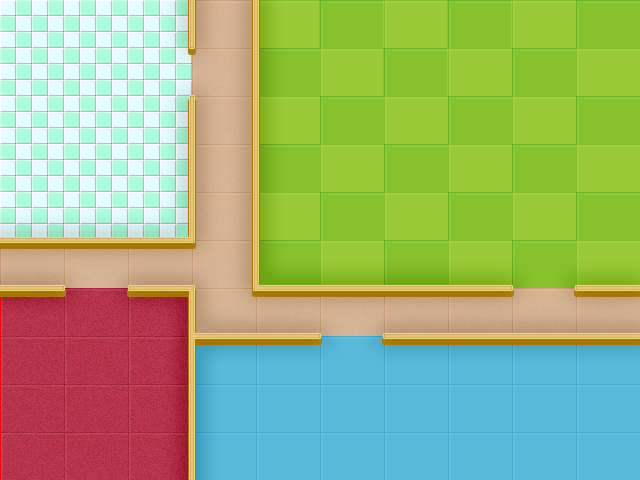
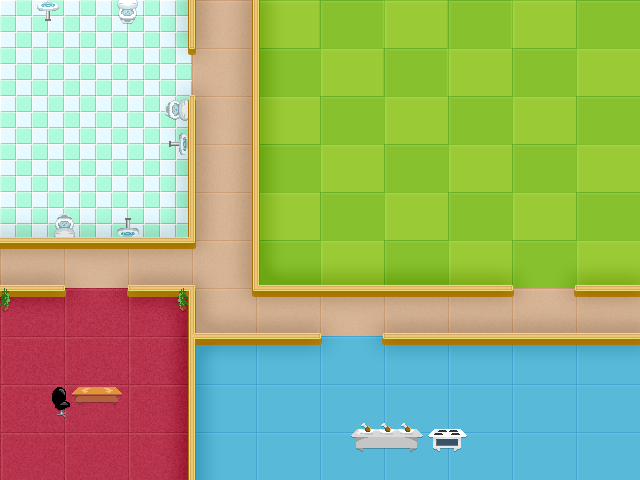
Hiring managers works, need to add functionalities still

diff --git a/public/javascripts/game.js b/public/javascripts/game.js
@@ -26,7 +26,7 @@ define(['reqanim', 'grid', 'zepto', 'entityFactory', 'moment', 'canvas', 'projec
 
     // Gameplay related settings
     this.gameplay = {
-      money: 30000,
+      money: 3000000,
 	  losecondition: -20000,
 	  progress: 0,
       time: new Date(1970,01,01).getMilliseconds(),
@@ -188,22 +188,38 @@ define(['reqanim', 'grid', 'zepto', 'entityFactory', 'moment', 'canvas', 'projec
    */
   Game.prototype.onClick = function(x, y) {
 
+    var isFound = false;
+
     for(var type in this.gameplay.floors[this.gameplay.currentFloor]) {
 
       if(type === "coder") {
 
         // Converting to possible coder coordinates...
-        x -= 4;
+        var person = this.gameplay.floors[this.gameplay.currentFloor][type][(x-4) + "," + y];
 
-        var person = this.gameplay.floors[this.gameplay.currentFloor][type][x + "," + y];
+        if(typeof person !== "undefined" && person.stateCurrent !== "walking") {
+          this.selectEntity(this.gameplay.floors[this.gameplay.currentFloor][type][(x-4) + "," + y]);
+          isFound = true;
+          break;
+        }
 
-        if(typeof person !== "undefined" && person.stateCurrent !== "walking")
-          this.selectEntity(this.gameplay.floors[this.gameplay.currentFloor][type][x + "," + y]);
-        else
-          this.clearSelections();
+      } else if(type === "manager") {
+
+        // Converting to possible manager coordinates...
+        var manager = this.gameplay.floors[this.gameplay.currentFloor][type][x + "," + (y-9)];
+
+        if(typeof manager !== "undefined") {
+          this.selectEntity(this.gameplay.floors[this.gameplay.currentFloor][type][x + "," + (y-9)]);
+          isFound = true;
+          break;
+        }
 
       }
 
+    }
+
+    if(isFound === false) {
+      this.clearSelections();
     }
 
   };
@@ -227,9 +243,11 @@ define(['reqanim', 'grid', 'zepto', 'entityFactory', 'moment', 'canvas', 'projec
     this.clearSelections();
 
     // Show correct view...
-    $('#person-' + entity.type).find('.person img').attr("src", "/images/" + entity.stateCurrent + ".png");
-    $('#person-' + entity.type).removeClass('hidden');
+    if(entity.type === "coder") {
+      $('#person-' + entity.type).find('.person img').attr("src", "/images/" + entity.stateCurrent + ".png");
+    }
 
+    $('#person-' + entity.type).removeClass('hidden');
     this.gameplay.selectedEntity = entity;
 
   };
@@ -238,12 +256,14 @@ define(['reqanim', 'grid', 'zepto', 'entityFactory', 'moment', 'canvas', 'projec
    * Called when UI selections needs to be toggled away.. (e.g. floor change)
    *
    */
-  Game.prototype.clearSelections = function(entity) {
+  Game.prototype.clearSelections = function() {
 
     // Setting UI to default hidden state
     this.ui.personArea.addClass("hidden");
-    $('.person img').attr("src", "/images/normal.png");
-    // todo add manager image..
+
+    if(this.gameplay.selectedEntity != null && this.gameplay.selectedEntity.type === "coder") {
+      $('#person-coder').find('.person img').attr("src", "/images/normal.png");
+    }
 
     this.gameplay.selectedEntity = null;
 
@@ -264,9 +284,10 @@ define(['reqanim', 'grid', 'zepto', 'entityFactory', 'moment', 'canvas', 'projec
       return;
 
     }
-	// Entity added, play sound!
-	this.register.currentTime = 0;
-	this.register.play();
+
+  	// Entity added, play sound!
+  	this.register.currentTime = 0;
+  	this.register.play();
 
   };
 

diff --git a/public/javascripts/managerFactory.js b/public/javascripts/managerFactory.js
@@ -1,0 +1,101 @@
+define(['manager'], function(Manager) {
+
+	/**
+	 *
+	 *
+	 */
+	var ManagerFactory = function(gameplay, tileFactory) {
+
+    this.gameplay = gameplay;
+    this.tileFactory = tileFactory;
+    this.maxManagers = 3;
+
+	};
+
+	/**
+	 *
+	 *
+	 */
+	ManagerFactory.prototype.addEntity = function() {
+
+    var result = {
+      error: null,
+      entity: null
+    };
+
+    // Check if enough cash
+    if(this.gameplay.money - this.gameplay.costs["manager"] >= 0) {
+
+        // Check if room available in this floor
+        if(this.hasRoom("manager")) {
+
+          var slot = this.getFreeSlot();
+
+          // Buy it..
+          this.gameplay.money -= this.gameplay.costs["manager"];
+
+          // todo: calculate next free position???
+          this.gameplay.floors[this.gameplay.currentFloor]["manager"][slot.x + "," + slot.y] = new Manager({
+            type: "manager",
+            x: slot.x,
+            y: slot.y,
+            sprite: this.tileFactory.getSprite("sitting", "manager"),
+            tileFactory: this.tileFactory
+          });
+
+          result.entity = this.gameplay.floors[this.gameplay.currentFloor]["manager"][slot.x + "," + slot.y];
+
+          return result;
+
+        }
+
+        result.error = "No manager slots available - change floor!";
+
+        return result;
+
+    }
+
+    result.error = "Not enough money for FATASS manager!";
+
+    return result;
+
+	};
+
+  /**
+   *
+   *
+   */
+  ManagerFactory.prototype.hasRoom = function() {
+
+    return Object.keys(this.gameplay.floors[this.gameplay.currentFloor]["manager"]).length < this.maxManagers;
+
+  };
+
+  /**
+   *
+   *
+   */
+  ManagerFactory.prototype.getFreeSlot = function() {
+
+    var isComplete = false;
+
+    do {
+
+      var x = Math.floor(Math.random() * (2 - 0 + 1)) + 0,
+          y = 0;
+
+      if(typeof this.gameplay.floors[this.gameplay.currentFloor]["manager"][x + "," + y] === "undefined")
+        isComplete = true;
+
+    } while(isComplete === false);
+
+    return {
+      x: x,
+      y: y
+    };
+
+  };
+
+	return ManagerFactory;
+
+});

diff --git a/public/javascripts/canvas.js b/public/javascripts/canvas.js
@@ -24,21 +24,13 @@ define(['zepto'], function($) {
 		// Clearing it all
 		this.clear();
 
-		// Draw all entities
+		// Draw all entities (current floor only)
 	    for(var type in this.gameplay.floors[this.gameplay.currentFloor]) {
+	      for(var key in this.gameplay.floors[this.gameplay.currentFloor][type]) {
 
-	      if(type === "coder") {
-
-	        for(var key in this.gameplay.floors[this.gameplay.currentFloor][type]) {
-
-	          this.gameplay.floors[this.gameplay.currentFloor][type][key].draw(this.ctx);
-
-	        }
+	         this.gameplay.floors[this.gameplay.currentFloor][type][key].draw(this.ctx);
 
 	      }
-
-	      break;
-
 	    }
 
 	};
@@ -48,17 +40,13 @@ define(['zepto'], function($) {
 		// Update all entities
 	    for(var floor in this.gameplay.floors) {
         for(var type in this.gameplay.floors[floor]) {
-          if(type === "coder") {
+          for(var key in this.gameplay.floors[floor][type]) {
 
-            for(var key in this.gameplay.floors[floor][type]) {
-
+            if(typeof this.gameplay.floors[this.gameplay.currentFloor][type][key] !== "undefined") {
               this.gameplay.floors[this.gameplay.currentFloor][type][key].update();
-
             }
 
           }
-
-          break;
         }
 	    }
 	};

diff --git a/public/javascripts/manager.js b/public/javascripts/manager.js
@@ -1,0 +1,55 @@
+define(['entity'], function(Entity) {
+
+	/**
+	 *
+	 *
+	 */
+	var Manager = function(options) {
+		Entity.call(this, options);
+
+		console.log("Manager created...");
+
+		// position from left & top
+		this.left = 0;
+		this.top = 432;
+
+		this.meetings = 5;
+		this.meetingTimer = 300;
+
+	};
+
+	Manager.prototype = Object.create(Entity.prototype);
+
+	/**
+	 *
+	 *
+	 */
+	Manager.prototype.draw = function(ctx) {
+
+		ctx.drawImage(
+			this.tileFactory.images.sitting,
+			this.sprite.x * this.sprite.width,
+			this.sprite.y * this.sprite.height,
+			this.sprite.width,
+			this.sprite.height,
+			this.left + this.x * this.sprite.width,
+			this.top + this.y * this.sprite.height,
+			this.sprite.width,
+			this.sprite.height
+		);
+
+	};
+
+	/**
+	 *
+	 *
+	 */
+	Manager.prototype.update = function() {
+
+		// end meeting..? timer?
+
+	};
+
+	return Manager;
+
+});

diff --git a/public/javascripts/entityFactory.js b/public/javascripts/entityFactory.js
@@ -1,4 +1,4 @@
-define(['tileFactory', 'coderFactory'], function(TileFactory, CoderFactory) {
+define(['tileFactory', 'coderFactory', 'managerFactory'], function(TileFactory, CoderFactory, ManagerFactory) {
 
 	/**
 	 *
@@ -13,7 +13,7 @@ define(['tileFactory', 'coderFactory'], function(TileFactory, CoderFactory) {
 		this.factories = {
 			coder: new CoderFactory(gameplay, this.tileFactory),
 			cleaner: null,
-			manager: null,
+			manager: new ManagerFactory(gameplay, this.tileFactory),
 			cook: null,
       tileFactory: this.tileFactory
 		};

diff --git a/public/stylesheets/style.less b/public/stylesheets/style.less
@@ -298,9 +298,17 @@ canvas#drawable-canvas {
     			width:33.3333%;
     		}
         .person {
-          background-color: #c0ff33;
           text-align: center;
         }
+
+        .person-coder-img {
+          background-color: #87c12e;
+        }
+
+        .person-manager-img {
+           background-color: #b6334c;
+        }
+
       }
 	  .hidden {
 		display:none;

diff --git a/public/stylesheets/style.css b/public/stylesheets/style.css
@@ -293,8 +293,13 @@ canvas {
   width: 33.3333%;
 }
 .ui-content .right .person-area .person {
-  background-color: #c0ff33;
   text-align: center;
+}
+.ui-content .right .person-area .person-coder-img {
+  background-color: #87c12e;
+}
+.ui-content .right .person-area .person-manager-img {
+  background-color: #b6334c;
 }
 .ui-content .right .hidden {
   display: none;

diff --git a/public/javascripts/tileFactory.js b/public/javascripts/tileFactory.js
@@ -18,7 +18,11 @@ define(['sprite'], function(Sprite) {
 				coder: {
 					x: 0,
 					y: 0
-				}
+				},
+        manager: {
+          x: 0,
+          y: 1
+        }
 			},
 			standing: {
 			}
